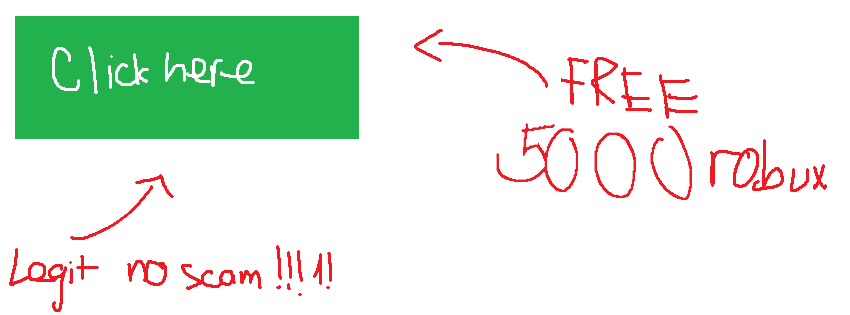
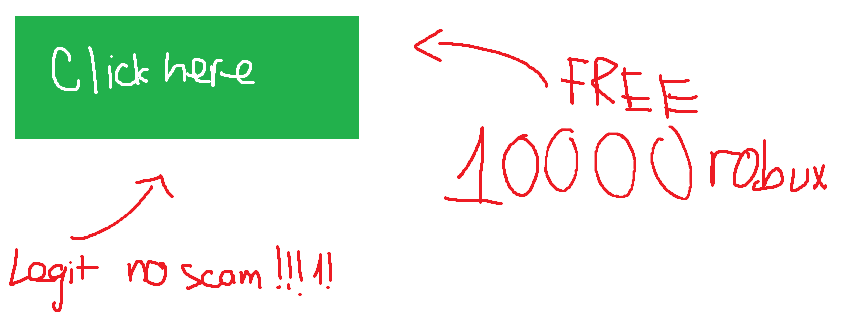
Add files via upload

Changed region(s): [[0.52, 0.4, 0.6424, 0.6571]]

diff --git a/totallynotaskam/styles.css b/totallynotaskam/styles.css
@@ -61,6 +61,78 @@ body {
     max-width: 100%;
     height: auto;
 }
+/* Modal Background (The Blur/Darkness) */
+.modal-overlay {
+    display: none; /* Hidden by default */
+    position: fixed;
+    z-index: 1000;
+    left: 0;
+    top: 0;
+    width: 100%;
+    height: 100%;
+    background-color: rgba(0, 0, 0, 0.7); /* Semi-transparent black */
+    backdrop-filter: blur(5px); /* Optional: blurs the background */
+}
+
+/* Modal Box */
+.modal-content {
+    background-color: #fff;
+    margin: 15% auto;
+    padding: 30px;
+    border-radius: 12px;
+    width: 400px;
+    text-align: center;
+    position: relative;
+    box-shadow: 0 5px 15px rgba(0,0,0,0.3);
+    animation: slideIn 0.3s ease-out;
+}
+
+@keyframes slideIn {
+    from { transform: translateY(-50px); opacity: 0; }
+    to { transform: translateY(0); opacity: 1; }
+}
+
+/* Close Button */
+.close-btn {
+    position: absolute;
+    right: 15px;
+    top: 10px;
+    font-size: 24px;
+    cursor: pointer;
+    color: #888;
+}
+
+.ad-clickable {
+    cursor: pointer;
+    transition: transform 0.2s;
+}
+
+.ad-clickable:hover {
+    transform: scale(1.02);
+}
+
+/* Navbar Header */
+.navbar {
+    background: linear-gradient(135deg, #667eea 0%, #764ba2 100%);
+    padding: 10px 0;
+    text-align: center;
+    box-shadow: 0 4px 6px rgba(0,0,0,0.1);
+}
+
+.rainbow-title {
+    background: linear-gradient(90deg, #ff6d6d, #ffba74, #f1ff72, #6bff7f, #3f97fc, #c277f8, #ffa3eb);
+    -webkit-background-clip: text;
+    -webkit-text-fill-color: transparent;
+    background-clip: text;
+    font-size: 2.5em;
+    margin: 0;
+    animation: rainbowShift 0.5s linear infinite;
+}
+
+@keyframes rainbowShift {
+    0% { filter: hue-rotate(0deg); }
+    100% { filter: hue-rotate(360deg); }
+}
 
 /* Responsive Design */
 @media (max-width: 768px) {

diff --git a/totallynotaskam/index.html b/totallynotaskam/index.html
@@ -9,36 +9,67 @@
 <body>
 
     <header class="navbar">
-        <h1>Page title</h1>
+        <h1 class="rainbow-title">Yen Vien High School wiki</h1>
     </header>
 
     <div class="container">
         <main class="content">
             <article>
-                <h2>Heading</h2>
-                <p class="meta">Date | Author</p>
+                <h2>What is Yen Vien High School? Discover Now👇👇👇👇</h2>
+                <p class="meta">6/7/2026 | Not a scammer</p>
                 
                 <div class="video-container">
-                    <iframe width="560" height="315" src="https://www.youtube.com/embed/dQw4w9WgXcQ?si=hNpZvth1IoDW1B26" title="YouTube video player" frameborder="0" allow="accelerometer; autoplay; clipboard-write; encrypted-media; gyroscope; picture-in-picture; web-share" referrerpolicy="strict-origin-when-cross-origin" allowfullscreen></iframe>
+                    <iframe width="560" height="315" src="https://www.youtube.com/embed/AzgtP42AhZg?si=aeeW6LQhjXJxllSl" title="YouTube video player" frameborder="0" allow="accelerometer; autoplay; clipboard-write; encrypted-media; gyroscope; picture-in-picture; web-share" referrerpolicy="strict-origin-when-cross-origin" allowfullscreen></iframe>
                 </div>
 
-                <p>Text content</p>
-                <p>Text content 2</p>
+                <p>Yen Vien High School is a prestigious educational institution located in Hanoi, Vietnam. It is known for its excellent academic programs and dedicated faculty.</p>
+                <p>Yen Vien High School has a long history of academic excellence and has produced many successful graduates who have gone on to pursue higher education and careers in various fields.</p>
             </article>
         </main>
 
         <aside class="sidebar">
-            <div class="ad-box">
+            <div class="ad-box ad-clickable">
                 <p>ADS</p>
                 <img src=".//ad1.png" alt="Advertisement">
             </div>
             
-            <div class="ad-box">
+            <div class="ad-box ad-clickable">
                 <p>ADS</p>
                 <img src="./ad2.jpg" alt="Advertisement">
             </div>
         </aside>
     </div>
-
+<div id="adModal" class="modal-overlay">
+    <div class="modal-content">
+        <span class="close-btn">&times;</span>
+        <h3>LOLOLOLOLOLOLOL</h3>
+        <p>You have been fooled. Thanks for the credit infomation lol. Imma go n buy 500 cigarettes</p>
+        <button class="cta-button">go cryin'</button>
+    </div>
+</div>
 </body>
 </html>
+<script>
+    const modal = document.getElementById("adModal");
+    const closeBtn = document.querySelector(".close-btn");
+    const ads = document.querySelectorAll(".ad-clickable");
+
+    // Open modal when any ad is clicked
+    ads.forEach(ad => {
+        ad.addEventListener("click", () => {
+            modal.style.display = "block";
+        });
+    });
+
+    // Close modal when "X" is clicked
+    closeBtn.onclick = function() {
+        modal.style.display = "none";
+    }
+
+    // Close modal if user clicks anywhere outside of the white box
+    window.onclick = function(event) {
+        if (event.target == modal) {
+            modal.style.display = "none";
+        }
+    }
+</script>